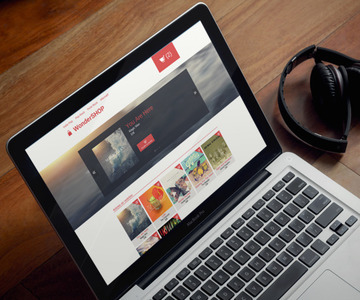
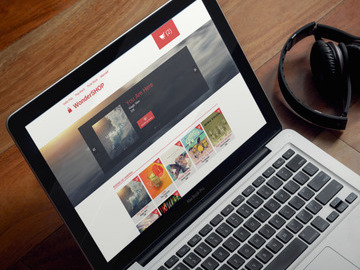
Bug fix for responsive design and resize image

diff --git a/portfolio.less b/portfolio.less
@@ -37,9 +37,21 @@ nav{
 	position: fixed;
 	width: 100%;	
 	padding: 20px 0;	
-	
+	@media screen and (max-height:500px){
+		padding: 10px 0;
+		.logo{
+			display: none;
+			line-height: 15px;
+		}
+		ul{
+			line-height: 15px;
+			li{
+				font-size: 0.8rem;
+			}
+		}
+	}
 	.logo{
-		@media screen and (min-width:501px ){
+		@media screen and (min-width:501px){
 			line-height: 20px;
 			margin-left: 20px;
 			font-size: 1.5rem;
@@ -57,12 +69,12 @@ nav{
 	
 	ul{		
 		float: right;
-		list-style: none;
+		list-style: none;		
+		line-height: 20px;		
 		li {
-		    float: left;		    
-		    line-height: 20px;
+		    float: left;	    
 		    text-align: center;
-		    a {
+		    a {	
 			    display: inline-block;
 			    width: 100px;
 			    &:link, &:visited{
@@ -116,6 +128,23 @@ nav{
 			}
 			img{
 				height: 40%;
+				width: auto;
+			}
+		}
+		@media screen and (max-height:500px){
+			.name{
+				text-transform: uppercase;
+				font-size: 1.5rem;
+			}
+			.description{
+				font-size: 0.8rem;
+			}
+			.line{
+				display: none;
+			}
+			img{
+				height: 40%;
+				width: auto;
 			}
 		}
 	}

diff --git a/portfolio.css b/portfolio.css
@@ -21,6 +21,21 @@ nav {
   width: 100%;
   padding: 20px 0;
 }
+@media screen and (max-height: 500px) {
+  nav {
+    padding: 10px 0;
+  }
+  nav .logo {
+    display: none;
+    line-height: 15px;
+  }
+  nav ul {
+    line-height: 15px;
+  }
+  nav ul li {
+    font-size: 0.8rem;
+  }
+}
 @media screen and (min-width: 501px) {
   nav .logo {
     line-height: 20px;
@@ -44,10 +59,10 @@ nav {
 nav ul {
   float: right;
   list-style: none;
+  line-height: 20px;
 }
 nav ul li {
   float: left;
-  line-height: 20px;
   text-align: center;
 }
 nav ul li a {
@@ -103,6 +118,23 @@ nav ul li a:active {
   }
   .centered #intro img {
     height: 40%;
+    width: auto;
+  }
+}
+@media screen and (max-height: 500px) {
+  .centered #intro .name {
+    text-transform: uppercase;
+    font-size: 1.5rem;
+  }
+  .centered #intro .description {
+    font-size: 0.8rem;
+  }
+  .centered #intro .line {
+    display: none;
+  }
+  .centered #intro img {
+    height: 40%;
+    width: auto;
   }
 }
 h1 {

diff --git a/index.php b/index.php
@@ -39,6 +39,7 @@ if(isset($_POST['send'])){
     <meta name="geo.placename" content="Noisy, France, Paris">
 
     <link href="portfolio.css" rel="stylesheet" type="text/css">
+    <meta name="viewport" content="width=device-width" />
     <link href='http://fonts.googleapis.com/css?family=Oxygen:300' rel='stylesheet' type='text/css'>
 </head>
 
